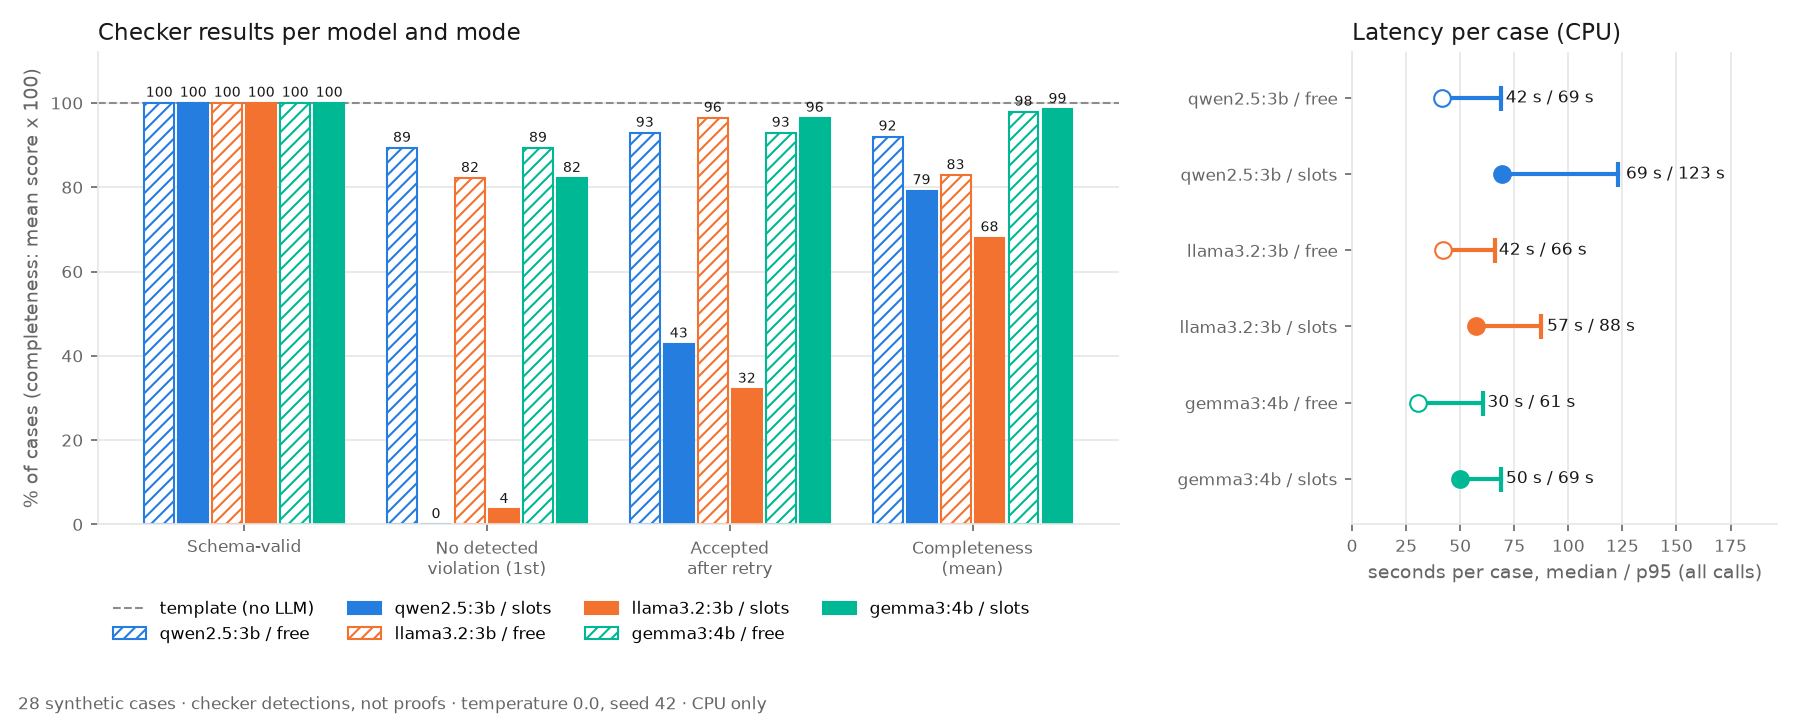
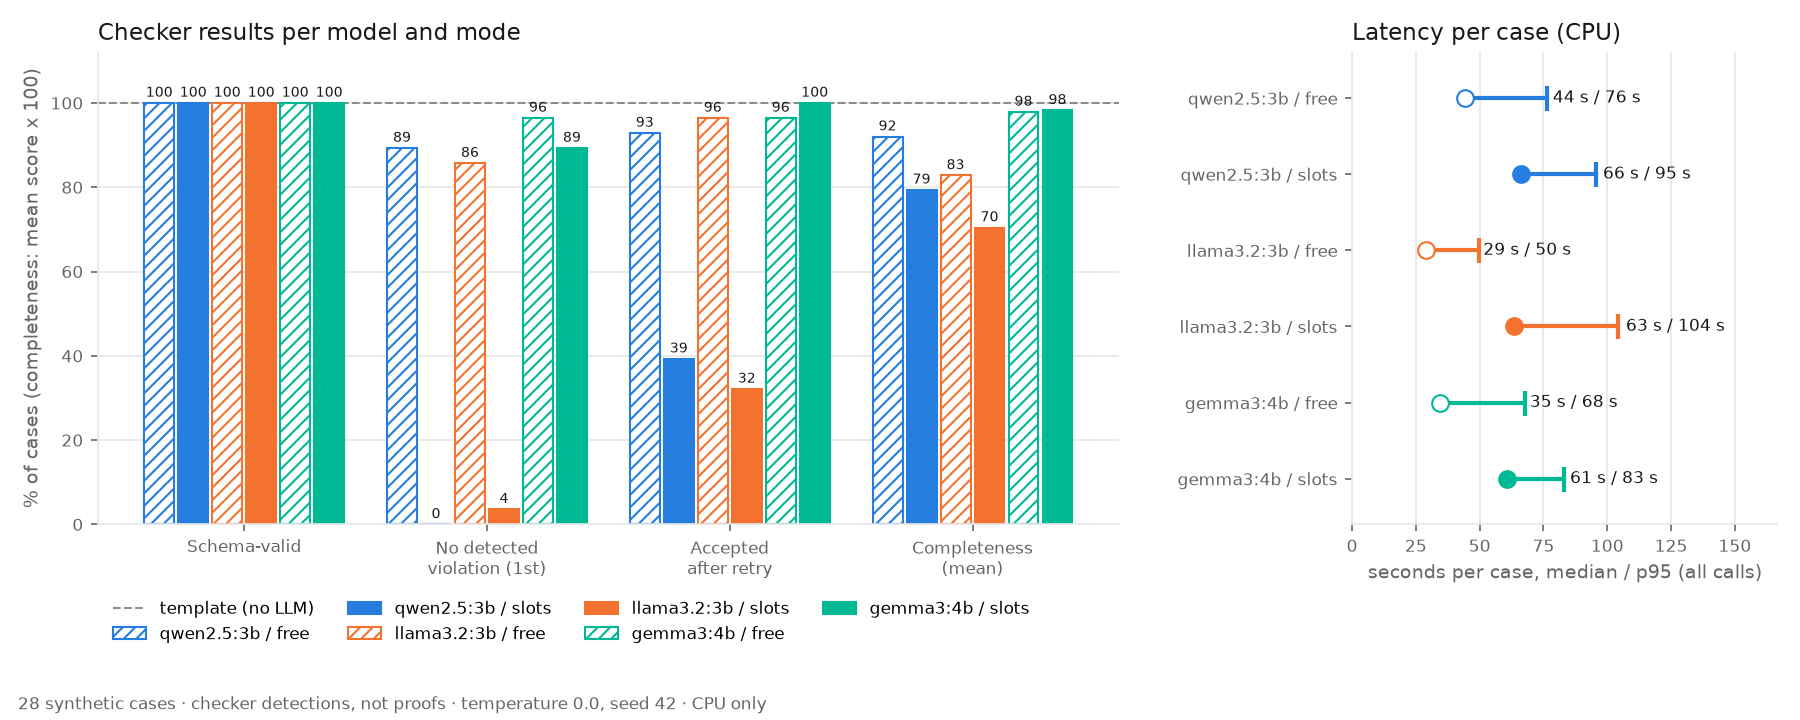
docs(report): checker-v3 comparison of free-text and slot mode for three models
Free text: 86-96 % of first drafts without detected violations, 93-96 %
accepted. Slots: gemma3:4b 89 % / 100 %; the 3B models mostly wrote
literal numbers despite the placeholder rule (39 % and 32 % accepted,
the rest delivered as templates). Rates are checker detections on the
fixed synthetic suite; the write-up states the uncertainty bound.

diff --git a/src/baulens/report/compare.py b/src/baulens/report/compare.py
@@ -317,7 +317,7 @@ def summary_block(run: ComparisonRun) -> str:
         f"prompts {prompts}, checker v{info.checker_version}, Ollama "
         f"{info.ollama_version or 'n/a'}, {info.machine}, {info.logical_cpus} logical CPUs, "
         f"{info.memory_gib:.0f} GiB RAM, system CPU load {info.cpu_before_percent:.0f} % "
-        "before the run"
+        "before this invocation"
     ]
     if info.cpu_before_percent >= SHARED_LOAD_PERCENT:
         notes.append("measured under shared load, so latencies are pessimistic")
@@ -327,7 +327,13 @@ def summary_block(run: ComparisonRun) -> str:
             "resource columns are not measured"
         )
     if info.reused:
-        notes.append("reused from an earlier identical run: " + ", ".join(info.reused))
+        notes.append(
+            "results of "
+            + ", ".join(info.reused)
+            + " come from earlier invocations into the same run directory and were reused "
+            "after manifest validation (inputs, prompts, checker, options); resource columns "
+            "were measured during those invocations"
+        )
     return "; ".join(notes) + "._\n\n" + metrics_table(run.metrics)
 
 

diff --git a/docs/results/report.md b/docs/results/report.md
@@ -74,37 +74,69 @@ them; caveats are detected with the keyword patterns in
 ## Results
 
 <!-- compare:begin -->
-_Generated by `baulens report compare` on 2026-11-26: 28 cases, prompts free `report-v2+7293be1d`, slots `report-slots-v1+38a6a855`, checker v2, Ollama 0.40.18, Windows 11, AMD64 Family 23 Model 104 Stepping 1, AuthenticAMD, 16 logical CPUs, 15 GiB RAM, system CPU load 13 % before the run._
+_Generated by `baulens report compare` on 2026-11-26: 28 cases, prompts free `report-v2+7293be1d`, slots `report-slots-v1+38a6a855`, checker v3, Ollama 0.40.18, Windows 11, AMD64 Family 23 Model 104 Stepping 1, AuthenticAMD, 16 logical CPUs, 15 GiB RAM, system CPU load 12 % before this invocation; results of qwen2.5:3b / free, qwen2.5:3b / slots, llama3.2:3b / free, llama3.2:3b / slots, gemma3:4b / free, gemma3:4b / slots come from earlier invocations into the same run directory and were reused after manifest validation (inputs, prompts, checker, options); resource columns were measured during those invocations._
 
 | Model / mode | Cases | Schema-valid (1st try / final) | No detected violation, first draft | Accepted after retry | Rejected / invalid / error / replay miss | Violations per first draft (invented / misattributed / inexact / unbound) | Completeness (drafts / accepted) |
 | --- | ---: | ---: | ---: | ---: | ---: | ---: | ---: |
 | qwen2.5:3b / free | 28 | 100 % / 100 % | 89 % | 93 % | 2 / 0 / 0 / 0 | 0.00 / 0.29 / 0.00 / 0.04 | 0.92 / 0.93 |
-| qwen2.5:3b / slots | 28 | 100 % / 100 % | 0 % | 43 % | 16 / 0 / 0 / 0 | 5.43 / 0.04 / 0.00 / 0.18 | 0.79 / 0.91 |
-| llama3.2:3b / free | 28 | 100 % / 100 % | 82 % | 96 % | 1 / 0 / 0 / 0 | 0.00 / 0.00 / 0.00 / 0.29 | 0.83 / 0.83 |
-| llama3.2:3b / slots | 28 | 100 % / 100 % | 4 % | 32 % | 19 / 0 / 0 / 0 | 2.61 / 0.00 / 0.00 / 0.89 | 0.68 / 0.80 |
-| gemma3:4b / free | 28 | 100 % / 100 % | 89 % | 93 % | 2 / 0 / 0 / 0 | 0.04 / 0.00 / 0.00 / 0.14 | 0.98 / 0.98 |
-| gemma3:4b / slots | 28 | 100 % / 100 % | 82 % | 96 % | 1 / 0 / 0 / 0 | 0.25 / 0.07 / 0.00 / 0.00 | 0.99 / 0.98 |
+| qwen2.5:3b / slots | 28 | 100 % / 100 % | 0 % | 39 % | 17 / 0 / 0 / 0 | 5.25 / 0.04 / 0.00 / 0.21 | 0.79 / 0.91 |
+| llama3.2:3b / free | 28 | 100 % / 100 % | 86 % | 96 % | 1 / 0 / 0 / 0 | 0.00 / 0.00 / 0.00 / 0.21 | 0.83 / 0.83 |
+| llama3.2:3b / slots | 28 | 100 % / 100 % | 4 % | 32 % | 19 / 0 / 0 / 0 | 2.61 / 0.00 / 0.00 / 0.82 | 0.70 / 0.80 |
+| gemma3:4b / free | 28 | 100 % / 100 % | 96 % | 96 % | 1 / 0 / 0 / 0 | 0.00 / 0.00 / 0.00 / 0.07 | 0.98 / 0.98 |
+| gemma3:4b / slots | 28 | 100 % / 100 % | 89 % | 100 % | 0 / 0 / 0 / 0 | 0.21 / 0.00 / 0.00 / 0.00 | 0.98 / 0.98 |
 | template (no LLM) | 28 | 100 % / 100 % | 100 % | 100 % | 0 / 0 / 0 / 0 | 0.00 / 0.00 / 0.00 / 0.00 | 1.00 / 1.00 |
 
 | Model / mode | Latency per case, median / p95 (s) | Calls per case | Output tokens per call | Tokens/s | Load time (s) | Ollama model size (GiB) | Peak runner RSS (GiB) | System CPU mean / max |
 | --- | ---: | ---: | ---: | ---: | ---: | ---: | ---: | ---: |
-| qwen2.5:3b / free | 41.7 / 69.0 | 1.11 | 340 | 12.1 | 0.0 | 2.02 | 3.18 | 78 % / 100 % |
-| qwen2.5:3b / slots | 69.4 / 123.0 | 2.00 | 326 | 11.1 | 0.0 | 2.02 | 3.28 | 83 % / 100 % |
-| llama3.2:3b / free | 42.1 / 65.9 | 1.18 | 269 | 8.8 | 0.0 | 2.39 | 4.65 | 83 % / 100 % |
-| llama3.2:3b / slots | 57.1 / 87.5 | 1.96 | 309 | 12.8 | 0.0 | 2.39 | 5.69 | 66 % / 95 % |
-| gemma3:4b / free | 30.2 / 60.7 | 1.11 | 300 | 11.8 | 0.0 | 2.69 | 8.17 | 63 % / 90 % |
-| gemma3:4b / slots | 49.8 / 69.1 | 1.18 | 377 | 12.5 | 0.0 | 2.69 | 8.67 | 56 % / 74 % |
-| template (no LLM) | 0.002 / 0.004 | 0.00 | - | - | - | - | - | - |
+| qwen2.5:3b / free | 44.4 / 76.3 | 1.11 | 340 | 10.5 | 7.1 | 2.02 | 3.00 | 84 % / 100 % |
+| qwen2.5:3b / slots | 66.3 / 95.4 | 2.00 | 327 | 12.5 | 7.1 | 2.02 | 3.31 | 74 % / 100 % |
+| llama3.2:3b / free | 28.9 / 49.9 | 1.14 | 268 | 13.2 | 8.1 | 2.39 | 5.46 | 68 % / 96 % |
+| llama3.2:3b / slots | 63.3 / 104.2 | 1.96 | 307 | 11.4 | 8.1 | 2.39 | 5.69 | 73 % / 100 % |
+| gemma3:4b / free | 34.5 / 67.6 | 1.04 | 301 | 9.4 | 10.0 | 2.69 | 6.15 | 80 % / 100 % |
+| gemma3:4b / slots | 60.5 / 82.9 | 1.11 | 377 | 9.9 | 10.0 | 2.69 | 5.84 | 77 % / 100 % |
+| template (no LLM) | 0.003 / 0.006 | 0.00 | - | - | - | - | - | - |
 <!-- compare:end -->
 
 ![Checker results and latency per model and mode](../figures/report/model_comparison.png)
 
-RESULTS_DISCUSSION
+### Discussion
+
+**The gate holds in both modes.** Every delivered model report is a draft in which the checker
+found no violation; every other case was delivered as the labelled template report. No run had
+an invalid reply, a service error or a replay miss.
+
+**Free text: high acceptance, because the models copy.** With the fact list and the rule "name
+the quantity right before each number", 86–96 % of first drafts had no detected violation and
+93–96 % were accepted after at most one correction. The detected errors are real ones: qwen2.5
+invented a deviation of 23,0 MPa "if the age drops to 0 Tage" (the age contribution without its
+sign, an age that does not exist), copied JSON-like fragments without units, and dropped the
+sign of positive contributions. Some rejections are fail-closed false positives: gemma3
+rejected once for an elliptic "der der Zementmenge … beträgt +1,3 MPa", where the role
+("Beitrag") is only implied.
+
+**Slots: safe by construction, but only gemma3 follows the format.** gemma3:4b wrote
+placeholders as instructed (89 % of first drafts clean, 100 % accepted); its only first-draft
+violations were the capture date and time copied literally instead of `{aufnahmedatum}`. The
+two 3B models mostly ignored the placeholder rule in the first draft (qwen2.5: 0 % clean,
+5.3 literal numbers per draft; llama3.2: 4 % clean, 2.6 literal numbers) and their corrections
+often traded literal numbers for unlabelled or unit-less placeholders, so only 39 % and 32 %
+were accepted. Those cases were delivered as templates: the cost is acceptance and latency
+(about two calls per case), not safety.
+
+**Recommendation.** Production default: slot mode with gemma3:4b (or a larger model that
+follows the placeholder format); its drafts were all accepted and the most complete (0.98).
+For the 3B models the free mode is the better trade-off on this suite, because the checker
+then has to catch fewer self-inflicted format errors. In every case the delivered text still
+needs review by an engineer: the checker verifies numbers, not claims (see the third example).
+
+**Speed.** On this shared CPU a free-text report took a median of 29–44 s and a slot report
+60–66 s (more corrections, longer prompt). Generation ran at roughly 9–13 tokens/s. The
+template takes milliseconds.
 
 ## Numeric faithfulness check
 
 [`numbers.py`](../../src/baulens/report/numbers.py) extracts numbers and
-[`faithfulness.py`](../../src/baulens/report/faithfulness.py) judges them (checker v2).
+[`faithfulness.py`](../../src/baulens/report/faithfulness.py) judges them (checker v3).
 
 **One rendering per fact, no rounding freedom.** Every fact is rendered once, German format,
 ROUND_HALF_UP: strengths and contributions to one decimal, ingredients to up to two, the w/z
@@ -175,11 +207,83 @@ completeness on all 28 cases.
 
 ## Examples
 
-EXAMPLES
+All examples come from the recorded checker-v3 run and can be reproduced offline with
+`baulens report generate --mode replay --model <model> --generation <mode> --input <case>.json`.
+
+**1. A slot draft (gemma3:4b, PB-024: 2-day-old concrete, borderline crack).** The model
+wrote placeholders; code inserted the numbers. Accepted, completeness 1.00.
+
+> *Model output:* Die prognostizierte Druckfestigkeit beträgt `{druckfestigkeit}` MPa. Das
+> Prognoseintervall liegt von `{untere_grenze}` MPa bis `{obere_grenze}` MPa. …
+> Die Risswahrscheinlichkeit beträgt `{risswahrscheinlichkeit}` %, die Entscheidungsschwelle
+> liegt bei `{entscheidungsschwelle}` % und das Ergebnis lautet Riss erkannt.
+>
+> *Delivered:* Die prognostizierte Druckfestigkeit beträgt 15,4 MPa. Das Prognoseintervall
+> liegt von 6,8 MPa bis 23,9 MPa. Die nominelle Überdeckung beträgt 90 % und das Betonalter
+> beträgt 2 Tage. … Die Risswahrscheinlichkeit beträgt 51,1 %, die Entscheidungsschwelle liegt
+> bei 50 % und das Ergebnis lautet Riss erkannt. Die Risswahrscheinlichkeit liegt nahe an der
+> Entscheidungsschwelle, was eine Unsicherheit in der Klassifikation impliziert.
+
+**2. A caught hallucination (qwen2.5:3b, free text, PB-006: 1-day-old concrete).**
+
+> Die Druckfestigkeit kann sich um bis zu **23,0 MPa** von der aktuellen Prognose abweichen,
+> wenn der Betonalter von 1 Tag auf **0 Tage** (oder der Zementanteil von 376,8 kg/m³ auf
+> **0 kg/m³**) abfällt.
+
+```text
+misattributed  '23,0 MPa'  Wert von Beitrag von Betonalter (−23,0 MPa), aber mit falschem oder fehlendem Vorzeichen
+misattributed  '0 Tage'    Wert von Hüttensand (0 kg/m³), aber Tage statt kg/m³
+unbound        '0 kg/m³'   Wert von Hüttensand (0 kg/m³), aber der Text nennt die Größe nicht
+```
+
+The sentence turns a SHAP contribution into a claimed deviation and invents an age of zero
+days. The corrective prompt did not fix it, so the report was rejected and the template was
+delivered.
+
+**3. Correct numbers, wrong claims (qwen2.5:3b, slots, PB-011: out-of-domain mix).** Accepted
+after one correction; every number is a placeholder bound to its role:
+
+> Die Prognostizierte Druckfestigkeit beträgt 16,0 MPa, von 3,5 MPa bis 28,4 MPa. … Die
+> Eingaben im Wertebereich der Trainingsdaten sind NEIN. … Die Prüfung der
+> Risswahrscheinlichkeit durch eine sachkundige Person vor Ort ersetzt den Rissbefund.
+
+The case has no crack result, and the last sentence inverts the caveat. The numeric gate
+cannot see either; this is what the code-inserted disclaimer and the engineer's review are
+for.
 
 ## Run notes
 
-RUN_NOTES
+- The tables come from run directory `artifacts/report/runs/v3` (2026-11-26, checker v3). It
+  was produced by one `compare --resume … --model <m>` invocation per model, so that each
+  model's replies could be committed as soon as it finished, followed by an assembly
+  invocation that reused all six (model, mode) runs after validating their manifests. The
+  resource columns were measured during the per-model invocations; other jobs (crack model
+  training) shared the CPU, which ran at 68–84 % mean load.
+- A first two-mode run with checker v2 completed earlier the same day. Reviewing its
+  violations showed five fail-closed false positives in ordinary German: "Pixeln" was not
+  recognised as a pixel unit, labels in a parenthesis after the number ("63,1 MPa
+  (Prognostiziert)") were ignored, a role named earlier in the clause ("Der Beitrag des
+  Betonalters von 365 Tagen beträgt +9,5 MPa") was not used, "Rückgang" was not a contribution
+  keyword, and inflected element names ("des Unterzuges Ebene 2") exposed their digits. v3
+  fixes these with regression tests; no v3 change can turn a clean draft into a violating one.
+  Because the shipped checker must be the evaluated one, all six runs were repeated with v3.
+  Decoding ran with temperature 0 and a fixed seed: 165 of 168 first drafts were byte-identical
+  to the v2 run (three slot drafts differed); the verdicts and therefore some retry paths
+  changed.
+- Still fail-closed by design (cost: acceptance, not safety): numbers whose role is only
+  implied by an ellipsis ("…, der der Zementmenge … beträgt +1,3 MPa"), "jeweils … bzw."
+  constructions, list-like fragments without labels ("37,0 MPa (28,6 MPa - 45,5 MPa, 90 %)"),
+  and positive contributions written without their "+".
+- An earlier single-mode comparison (checker v1) is superseded; its numbers are no longer
+  reported. Ollama stopped during that run under memory pressure; this run kept one model in
+  memory at a time and unloaded it (`keep_alive` 0) before loading the next.
+- "Load time" is the wall time of the load request; Ollama reports no `load_duration` for an
+  empty load. "Peak runner RSS" now includes Ollama's `llama-server` runner; it is larger than
+  the `/api/ps` size, presumably because it also counts runtime buffers and, for gemma3,
+  the vision projector.
+- Re-run on an idle machine: `uv run baulens report compare`. It re-records the replies in
+  `data/report_replays/`, rewrites the tables above and the figure, and records all resource
+  columns.
 
 ## Model licences
 
